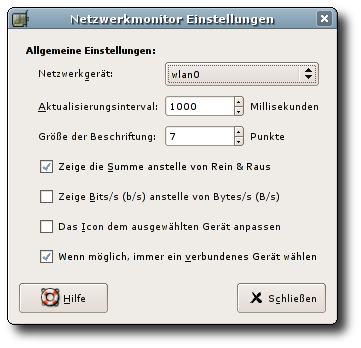
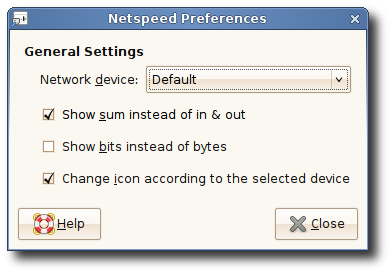
Update screenshots and page for new release
svn path=/trunk/; revision=6294

diff --git a/www.gnome.org/projects/netspeed/index.html b/www.gnome.org/projects/netspeed/index.html
@@ -31,14 +31,6 @@ This screenshot shows netspeed monitoring a W-Lan device.
 </p>
 <img src="images/netspeed1.png" alt="A screenshot showing a wlan device" />
 <p>
-A screenshot showing the effect of enabling the "show only sum" setting.
-</p>
-<img src="images/netspeed2.png" alt="A screenshot showing the show-sum setting enabled" />
-<p>
-Netspeed in a transparent panel with context menu.
-</p>
-<img src="images/netspeed3.png" alt="A screenshot showing netspeed in a transparent panel" />
-<p>
 The preferences dialog.
 </p>
 <img src="images/netspeed-settings.png" alt="A screenshot showing the preferences dialog" />
@@ -101,10 +93,10 @@ If you want to create a patch for FreeBSD, take a look at <tt>src/backend.c</tt>
 The latest version of Netspeed requires GNOME (&gt;=2.15.x) and GTK (&gt;=2.6).
 </p>
 <p>
-The latest release is version 0.14. Packages available are:
+The latest release is version 0.15. Packages available are:
 </p>
 <ul>
-<li>Source Tarball: <a href="http://www.wh-hms.uni-ulm.de/~mfcn/netspeed/packages/netspeed_applet-0.14.tar.gz">netspeed_applet-0.14.tar.gz</a></li>
+<li>Source Tarball: <a href="http://www.wh-hms.uni-ulm.de/~mfcn/netspeed/packages/netspeed_applet-0.15.tar.gz">netspeed_applet-0.15.tar.gz</a></li>
 <li>Debian: use <tt>apt-get install netspeed</tt></li> 
 <li>Ubuntu: you need <tt>universe</tt> in your sources.list, to apt-get it</li>
 <li>Gentoo: simply emerge it</li>
@@ -122,6 +114,17 @@ Previous releases are available <a href="http://www.wh-hms.uni-ulm.de/~mfcn/nets
 <!-- Changes -->
 <a name="changes"></a>
 <h1>Changes</h1>
+
+<h4>0.15</h4>
+<ul>
+    <li>Special thanks to Pedro Villavicencio Garrido, Benoît Dejean, Japp Haitsma, Jakub Steiner, Marius Gedminas, Andras Barna for their contributions!</li>
+    <li>Added wireless support (Pedro)</li>
+    <li>Removed font size option and refresh rate option (Pedro)</li>
+    <li>Removed "always monitor a connected device"; instead there is now an entry "Default" in the device-selector which will always monitor the device which has the default route set (Marius)</li>
+    <li>New icons. Yay! :-) (Jakub)</li>
+    <li>Lots of small fixes (Japp, Benoit, Andras)</li>
+</ul>
+
 <h4>0.14</h4>
 <ul>
 <li>We now use 1000 bit = 1Mbit and 1024 bytes = 1 MiByte (thus switch to SI-Units)</li>
